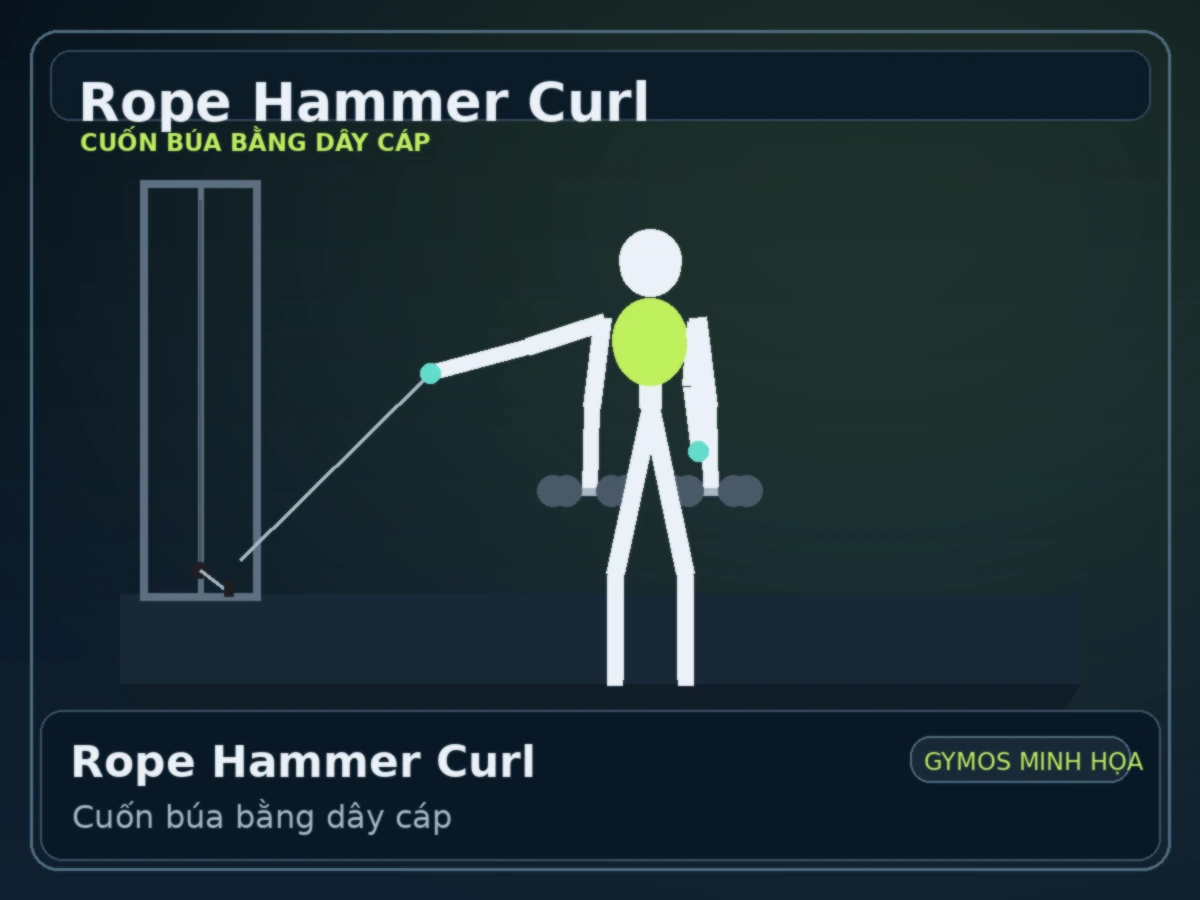
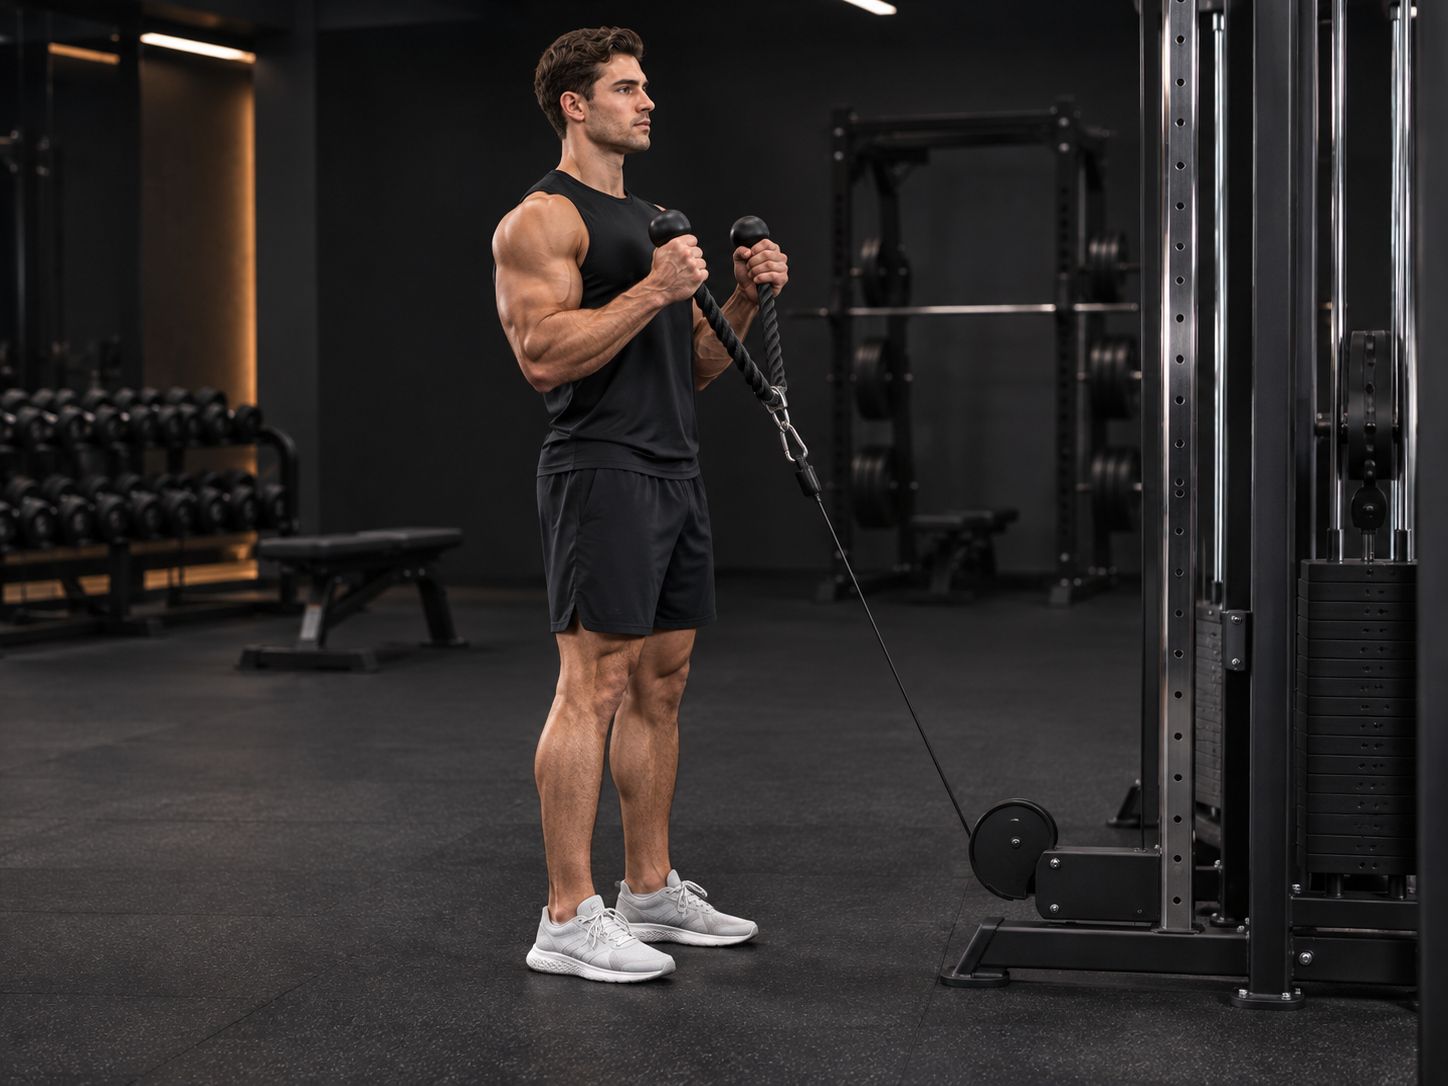
GymOS v4.8.3 - apply photorealistic exercise images

diff --git a/sw.js b/sw.js
@@ -1,4 +1,4 @@
-const CACHE='gymos-static-v482';
+const CACHE='gymos-static-v483';
 const ASSETS=['./','./index.html','./styles.css','./app.js','./exercise-media.js','./exercise-extra-media.js','./gym-equipment.mjs','./workout-intelligence.mjs','./gymos-session-upgrade.mjs','./session-defaults.mjs','./training-modes.mjs','./data.js','./catalog.js','./cardio.js','./planner.mjs','./manifest.webmanifest','./assets/icon.svg','./assets/icon-192.png','./assets/icon-512.png','./assets/hero-athlete.webp','./assets/hero-athlete-mobile.webp','./assets/exercise-specific/bird-dog.webp','./assets/exercise-specific/seated-hip-abduction.webp','./assets/exercise-specific/quadruped-leg-extension.webp','./assets/exercise-specific/banded-clamshell.webp','./assets/exercise-specific/lateral-band-walk.webp','./assets/exercise-specific/march-in-place.webp','./assets/exercise-specific/shadow-boxing.webp','./assets/exercise-specific/ski-erg.webp','./assets/exercise-specific/medicine-ball-slam.webp','./assets/exercise-specific/agility-ladder.webp','./assets/exercise-specific/band-march.webp','./assets/exercise-specific/band-punch.webp','./assets/exercise-specific/battle-ropes.webp','./assets/exercise-specific/box-lateral-step.webp','./assets/exercise-specific/boxer-bounce.webp','./assets/exercise-specific/butt-kicks.webp','./assets/exercise-specific/cable-lateral-raise.webp','./assets/exercise-specific/calf-reach.webp','./assets/exercise-specific/cone-shuffle.webp','./assets/exercise-specific/fast-feet.webp','./assets/exercise-specific/fire-hydrant.webp','./assets/exercise-specific/frog-pump.webp','./assets/exercise-specific/heel-dig.webp','./assets/exercise-specific/incline-climber.webp','./assets/exercise-specific/jump-rope.webp','./assets/exercise-specific/kettlebell-march.webp','./assets/exercise-specific/knee-lift.webp','./assets/exercise-specific/lateral-shuffle.webp','./assets/exercise-specific/machine-lateral-raise.webp','./assets/exercise-specific/med-carry.webp','./assets/exercise-specific/plate-march.webp','./assets/exercise-specific/rope-hammer-curl.webp','./assets/exercise-specific/sandbag-carry.webp','./assets/exercise-specific/side-steps.webp','./assets/exercise-specific/skater-step.webp','./assets/exercise-specific/step-touch.webp','./assets/exercise-specific/toe-reach.webp','./assets/exercise-specific/toe-taps-step.webp','./assets/exercise-specific/walk-jacks.webp'];
 self.addEventListener('install',e=>e.waitUntil(caches.open(CACHE).then(c=>c.addAll(ASSETS)).then(()=>self.skipWaiting())));
 self.addEventListener('activate',e=>e.waitUntil(caches.keys().then(keys=>Promise.all(keys.filter(k=>k!==CACHE).map(k=>caches.delete(k)))).then(()=>self.clients.claim())));

diff --git a/index.html b/index.html
@@ -11,7 +11,7 @@
   <link rel="manifest" href="./manifest.webmanifest">
   <link rel="icon" type="image/svg+xml" href="./assets/icon.svg">
   <link rel="apple-touch-icon" href="./assets/icon-192.png">
-  <title>GymOS 4.8.2 — Exercise Library Fixes</title>
+  <title>GymOS 4.8.3 — Exercise Library Fixes</title>
   <link rel="stylesheet" href="./styles.css">
 </head>
 <body data-theme="lime">
@@ -34,7 +34,7 @@
       <div class="sidebar-bottom">
         <div class="coach-card"><span class="coach-icon">✦</span><strong>Tiến bộ nhỏ, bền vững.</strong><p>Không cần tập hoàn hảo. Chỉ cần quay lại buổi tiếp theo.</p></div>
         <button data-nav="settings" class="nav-link"><span class="nav-glyph"><svg xmlns="http://www.w3.org/2000/svg" viewBox="0 0 24 24" fill="none" stroke="currentColor" stroke-width="1.8" stroke-linecap="round" stroke-linejoin="round" aria-hidden="true"><path d="M12 8a4 4 0 1 0 0 8 4 4 0 0 0 0-8z"/><path d="m19.4 15 1.1 1.9-2 2-1.9-1.1a8 8 0 0 1-2 .8l-.5 2.3h-2.8l-.5-2.3a8 8 0 0 1-2-.8L6.9 19l-2-2L6 15.1a8 8 0 0 1-.8-2L3 12.6V9.8l2.2-.5a8 8 0 0 1 .8-2L4.9 5.4l2-2 1.9 1.1a8 8 0 0 1 2-.8l.5-2.3H14l.5 2.3a8 8 0 0 1 2 .8l1.9-1.1 2 2-1.1 1.9a8 8 0 0 1 .8 2l2.2.5v2.8l-2.2.5a8 8 0 0 1-.7 1.9z"/></svg></span> Cài đặt & dữ liệu</button>
-        <div class="sidebar-foot">GYMOS v4.8.2 <span>·</span> LƯU TRÊN THIẾT BỊ</div>
+        <div class="sidebar-foot">GYMOS v4.8.3 <span>·</span> LƯU TRÊN THIẾT BỊ</div>
       </div>
     </aside>
     <div class="main-column">

diff --git a/PATCH_NOTES_v4.8.3.md b/PATCH_NOTES_v4.8.3.md
@@ -1,0 +1,22 @@
+# GymOS v4.8.3 — Exercise Photo Assets
+
+## Điểm mới
+- Thay các ảnh minh hoạ dạng sơ đồ / đơn giản ở một số bài bằng ảnh AI photorealistic có người và dụng cụ rõ ràng.
+- Áp đúng ảnh cho đúng bài tập để tránh duplicate hoặc sai biến thể.
+- Bổ sung cache version mới để PWA nhận ảnh mới.
+
+## Bài đã được thay ảnh chất lượng cao
+- Rope Hammer Curl
+- Machine Lateral Raise
+- Cable Lateral Raise
+- Fire Hydrant
+- Frog Pump
+- Battle Ropes
+- Jump Rope
+- Toe Tap
+- Agility Ladder
+- Sandbag Carry
+
+## Ghi chú
+- Đây là ảnh minh hoạ AI photorealistic giúp nhận diện động tác và dụng cụ trực quan hơn trước khi xem video.
+- Các bài còn lại giữ nguyên theo patch v4.8.2.

diff --git a/README.md b/README.md
@@ -1,6 +1,6 @@
-# GymOS v4.8.2 — Exercise Library Media Fixes
+# GymOS v4.8.3 — Exercise Photo Assets
 
-Các thay đổi xem trong [PATCH_NOTES_v4.8.2.md](PATCH_NOTES_v4.8.2.md). Sửa thêm thư viện bài tập: bổ sung ảnh minh hoạ cho các bài hiếm, sửa bài bị trùng/sai ảnh và giảm các trường hợp thiếu hình.
+Các thay đổi xem trong [PATCH_NOTES_v4.8.3.md](PATCH_NOTES_v4.8.3.md). Sửa thêm thư viện bài tập: bổ sung ảnh minh hoạ cho các bài hiếm, sửa bài bị trùng/sai ảnh và giảm các trường hợp thiếu hình.
 
 ---
 
